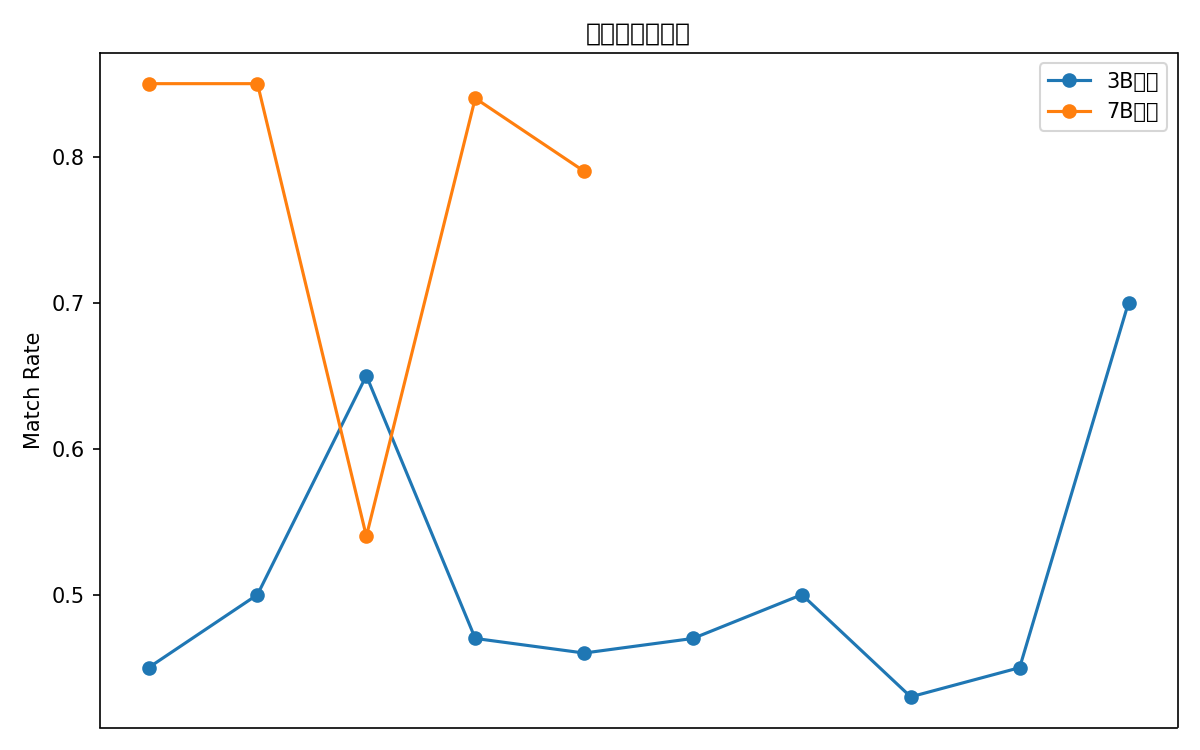
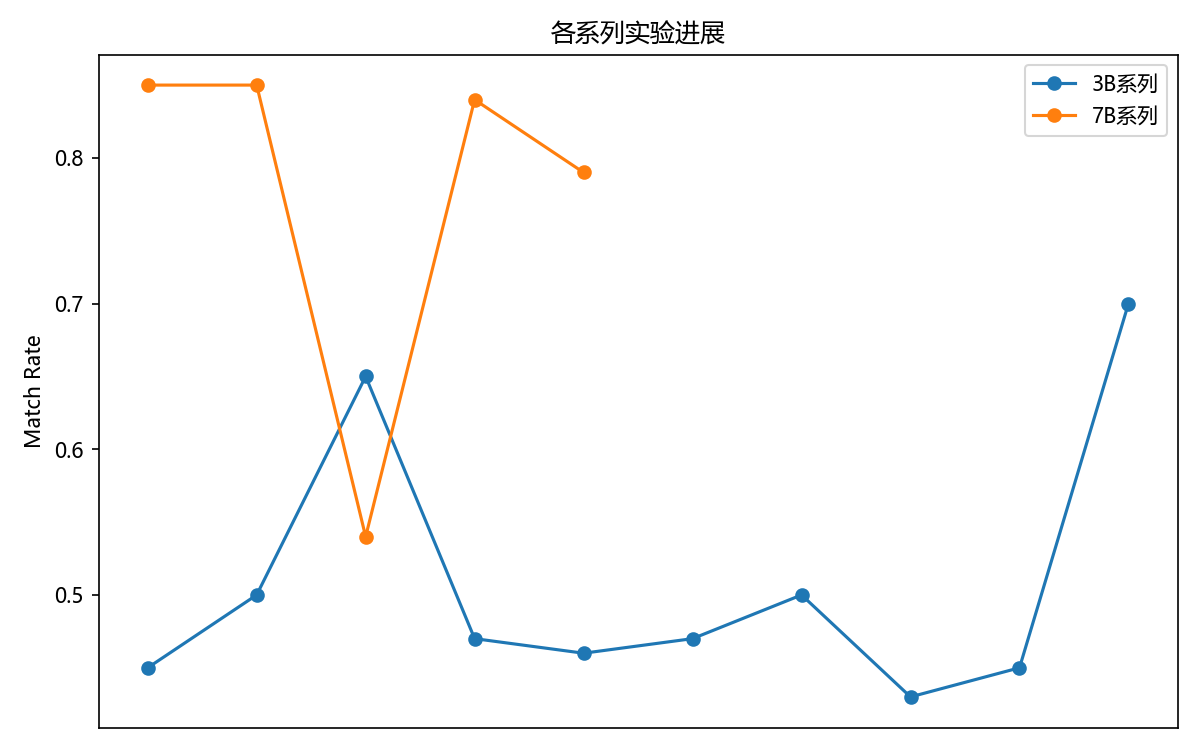
新增训练曲线图(3lvl vs partial 对比) + 重生成实验对比图 + 记录脚本支持单独绘图 + 训练日志存档

diff --git a/scripts/plot_training_curves.py b/scripts/plot_training_curves.py
@@ -1,0 +1,133 @@
+#!/usr/bin/env python3
+"""从训练日志画 GRPO 训练曲线（reward / reward_std / kl / completion_length vs step）
+
+用法:
+    python scripts/plot_training_curves.py
+"""
+import json
+import re
+from pathlib import Path
+
+import matplotlib
+matplotlib.use("Agg")
+import matplotlib.pyplot as plt
+import numpy as np
+
+for _f in ["Microsoft YaHei", "SimHei", "Noto Sans CJK SC", "WenQuanYi Zen Hei"]:
+    try:
+        plt.rcParams["font.sans-serif"] = [_f]
+        plt.rcParams["axes.unicode_minus"] = False
+        break
+    except Exception:
+        continue
+
+PROJECT = Path(__file__).resolve().parent.parent
+LOGS = PROJECT / "logs"
+CHARTS = PROJECT / "charts"
+
+# 训练日志 → 图例名
+RUNS = {
+    "3b_3lvl_1639580.out": "三级奖励 75步 (checkpoint-25/50/75)",
+    "p2d_1647296.out": "partial奖励 500条 25步 (P2D)",
+}
+
+
+def parse_log(path: Path):
+    steps, rewards, r_stds, kls, lengths, grad_norms = [], [], [], [], [], []
+    for line in path.read_text(encoding="utf-8", errors="ignore").splitlines():
+        m = re.search(r"\{'loss'.*\}", line)
+        if not m:
+            continue
+        try:
+            d = json.loads(m.group(0).replace("'", '"'))
+        except Exception:
+            continue
+        steps.append(len(steps) + 1)
+        rewards.append(d.get("reward", 0.0))
+        r_stds.append(d.get("reward_std", 0.0))
+        kls.append(d.get("kl", 0.0))
+        lengths.append(d.get("completion_length", 0.0))
+        grad_norms.append(d.get("grad_norm", 0.0))
+    return steps, rewards, r_stds, kls, lengths, grad_norms
+
+
+def main():
+    CHARTS.mkdir(exist_ok=True)
+    parsed = {}
+    for fname, label in RUNS.items():
+        p = LOGS / fname
+        if not p.exists():
+            print(f"skip {fname} (not found)")
+            continue
+        parsed[label] = parse_log(p)
+        print(f"{fname}: {len(parsed[label][0])} 个记录点")
+
+    if not parsed:
+        print("无可用日志")
+        return
+
+    fig, axes = plt.subplots(2, 2, figsize=(13, 9))
+
+    # 1) 平均奖励
+    ax = axes[0][0]
+    for label, (s, r, *_rest) in parsed.items():
+        ax.plot(s, r, marker="o", ms=3, label=label)
+    ax.set_xlabel("训练步数")
+    ax.set_ylabel("平均奖励 (reward)")
+    ax.set_title("GRPO 平均奖励曲线")
+    ax.legend(fontsize=8)
+    ax.grid(alpha=0.3)
+
+    # 2) 奖励标准差（多样性信号）
+    ax = axes[0][1]
+    for label, (s, r, rs, *_rest) in parsed.items():
+        ax.plot(s, rs, marker="o", ms=3, label=label)
+    ax.set_xlabel("训练步数")
+    ax.set_ylabel("奖励标准差")
+    ax.set_title("奖励标准差（组内多样性）")
+    ax.legend(fontsize=8)
+    ax.grid(alpha=0.3)
+
+    # 3) KL 散度（偏离基座模型程度）
+    ax = axes[1][0]
+    for label, (s, r, rs, kl, *_rest) in parsed.items():
+        ax.plot(s, kl, marker="o", ms=3, label=label)
+    ax.set_xlabel("训练步数")
+    ax.set_ylabel("KL")
+    ax.set_title("KL 散度（离基座距离，过大=灾难遗忘）")
+    ax.legend(fontsize=8)
+    ax.grid(alpha=0.3)
+
+    # 4) 生成长度
+    ax = axes[1][1]
+    for label, (s, r, rs, kl, ln, *_rest) in parsed.items():
+        ax.plot(s, ln, marker="o", ms=3, label=label)
+    ax.set_xlabel("训练步数")
+    ax.set_ylabel("平均生成长度 (token)")
+    ax.set_title("生成长度（越稳定越好）")
+    ax.legend(fontsize=8)
+    ax.grid(alpha=0.3)
+
+    fig.suptitle("GRPO 训练过程曲线（来自训练日志）", fontsize=13)
+    plt.tight_layout()
+    out = CHARTS / "training_curves.png"
+    plt.savefig(out, dpi=150)
+    print(f"✅ 训练曲线: {out}")
+
+    # 5) 单图: 奖励对比（汇报用）
+    fig2, ax2 = plt.subplots(figsize=(10, 5))
+    for label, (s, r, *_rest) in parsed.items():
+        ax2.plot(s, r, marker="o", ms=4, linewidth=2, label=label)
+    ax2.set_xlabel("训练步数")
+    ax2.set_ylabel("平均奖励")
+    ax2.set_title("GRPO 训练奖励对比（三级 vs partial）")
+    ax2.legend(fontsize=9)
+    ax2.grid(alpha=0.3)
+    plt.tight_layout()
+    out2 = CHARTS / "training_reward_compare.png"
+    plt.savefig(out2, dpi=150)
+    print(f"✅ 奖励对比图: {out2}")
+
+
+if __name__ == "__main__":
+    main()

diff --git a/scripts/record_experiment.py b/scripts/record_experiment.py
@@ -155,13 +155,16 @@ def generate_charts():
 
 if __name__ == "__main__":
     parser = argparse.ArgumentParser()
-    parser.add_argument("--summary", required=True, help="summary.json 路径")
-    parser.add_argument("--name", required=True, help="实验名（对应 output 目录名）")
+    parser.add_argument("--summary", default=None, help="summary.json 路径")
+    parser.add_argument("--name", default=None, help="实验名（对应 output 目录名）")
     parser.add_argument("--method", default="", help="方法描述")
     parser.add_argument("--notes", default="", help="备注")
-    parser.add_argument("--charts", action="store_true", help="同时生成图表")
+    parser.add_argument("--charts", action="store_true", help="生成图表（可单独使用）")
     args = parser.parse_args()
 
-    record(args.summary, args.name, args.method, args.notes)
+    if args.summary and args.name:
+        record(args.summary, args.name, args.method, args.notes)
+    elif not args.charts:
+        parser.error("需要 --summary 和 --name，或使用 --charts 单独生成图表")
     if args.charts:
         generate_charts()
